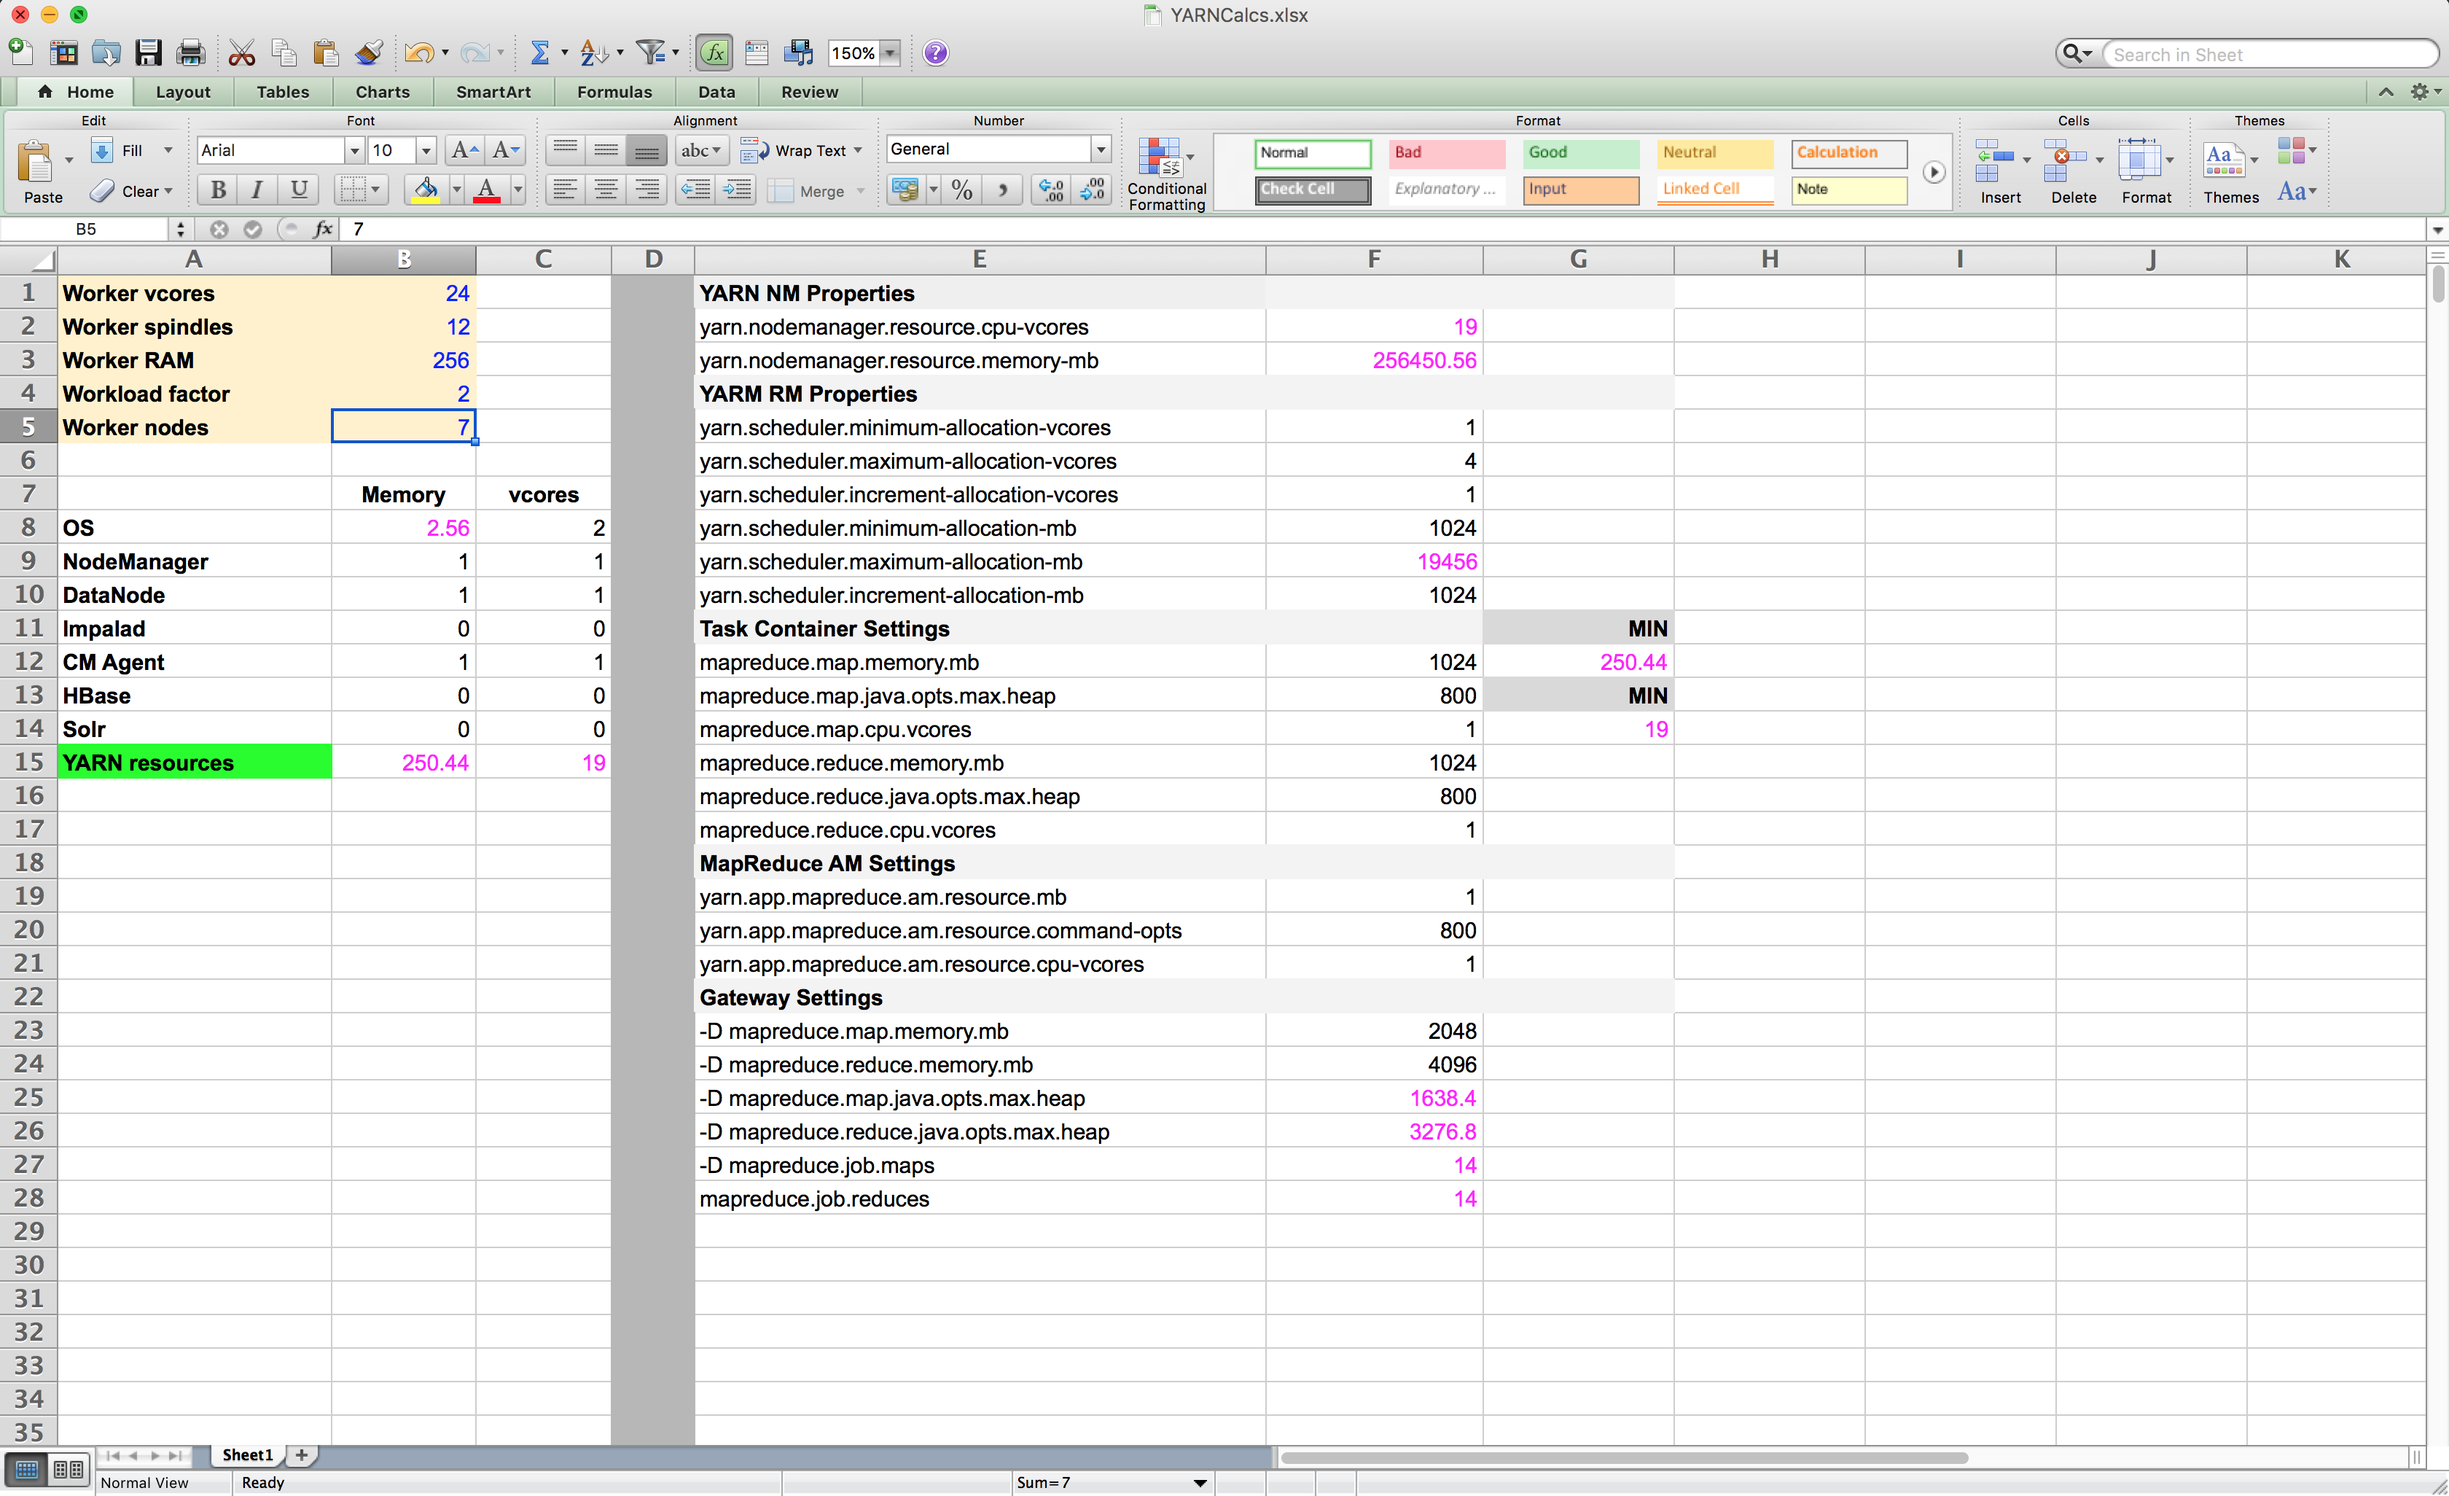
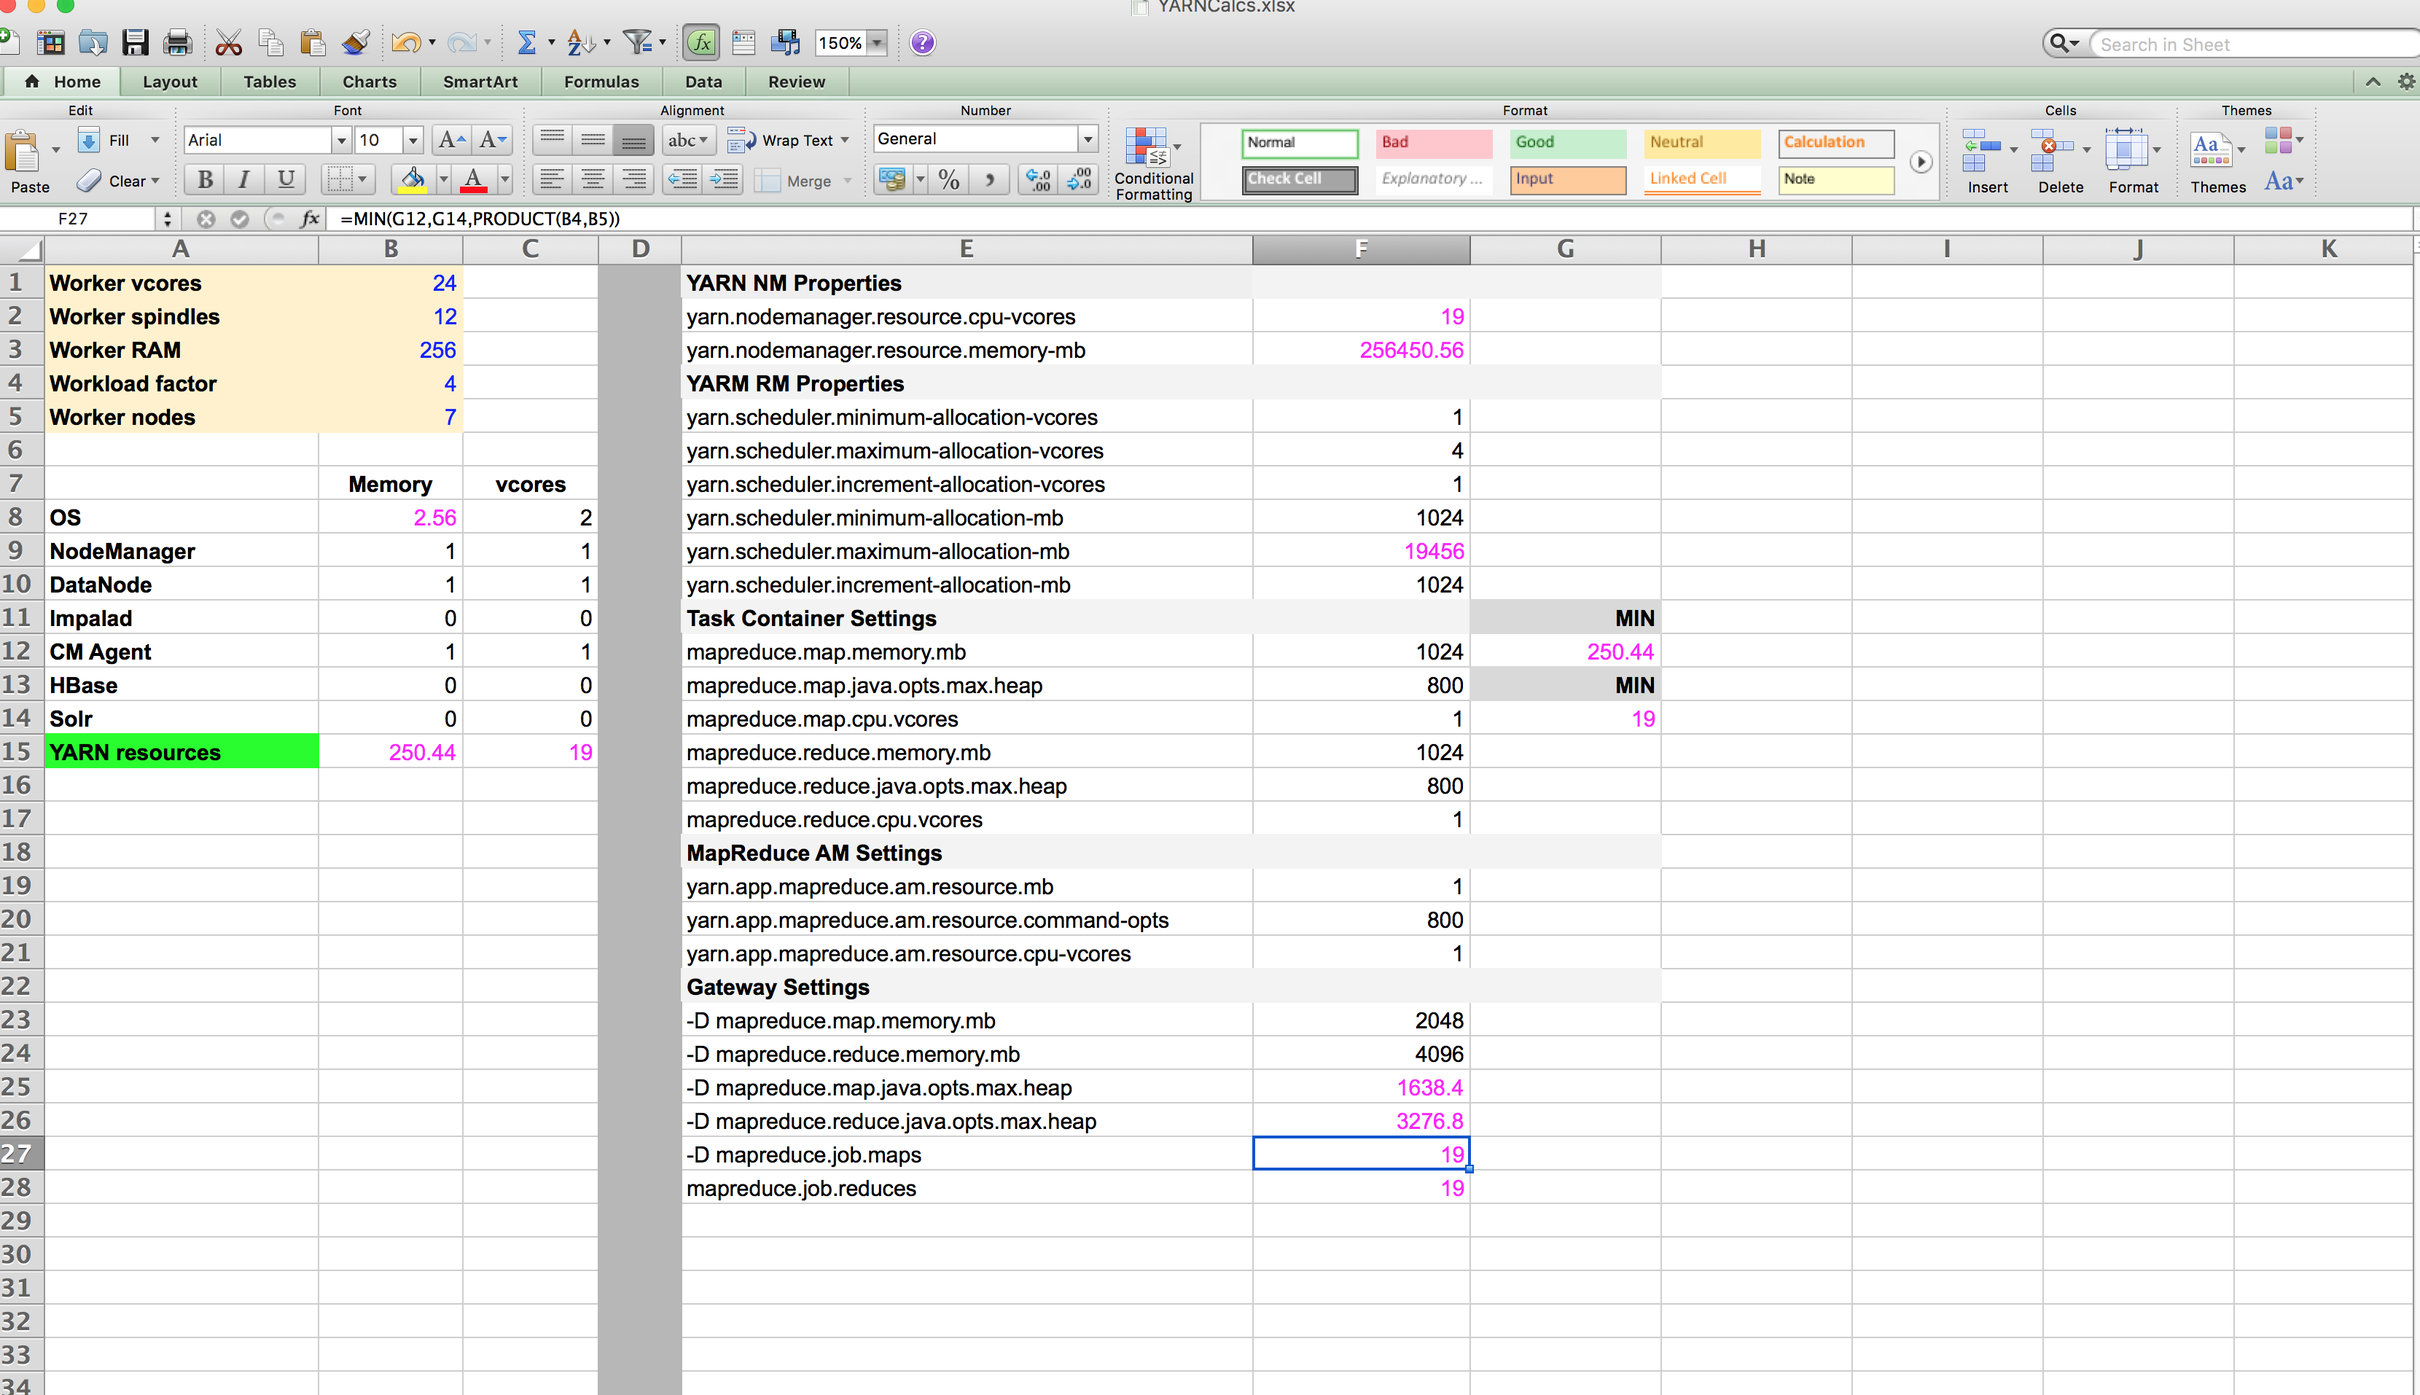
YARN/RM Lab

Changed region(s): [[0.0, 0.0, 1.0, 1.0], [0.4654, 0.0, 0.5274, 0.0308]]

diff --git a/resources/labs/0_YarnCalcs.md b/resources/labs/0_YarnCalcs.md
@@ -5,6 +5,4 @@
 * Reduced OS level Memory usage for given configuration. 10% of available 256 GB RAM is alot of OS level activities. So, reduced it to 1% to maximize the availabilty of memory for Yarn.
 
 ####3 What criteria affects workload factor? What does a value of 1, 2, or 4 signify?
-* Taking guess CPU, Number of Spindles and RAM. (Can you please explain what is workload factor)
-
-####4 
+* Workload is defining the intesity and resources expected for workload items. Byt changing this value its effecting the parallel processing of the by either increading or decreasing the mappers and reducers that we can used for the job

diff --git a/resources/labs/4_YARN_results.md b/resources/labs/4_YARN_results.md
@@ -1,0 +1,39 @@
+* Parameters used for test
+	*  Mappers = 4, 6, 8, 10
+	*  Reducers = 1, 2, 3, 4
+	*  Memory = 512, 1024
+* Fastest Run
+
+```
+	Mappers: 10
+	Reducers: 4
+	mapreduce.map.memory.mb: 512
+    
+    Teragen:
+	real	1m4.910s
+	user	0m6.346s
+	sys	0m0.316s
+
+	Terasort:
+	real	1m42.498s
+	user	0m8.076s
+	sys	0m0.367s
+	
+```
+
+* Slowest Run
+
+```
+	Mappers: 4
+	Reducers: 1
+	mapreduce.map.memory.mb: 1024
+	
+	Teragen:
+	real	1m7.916s
+	user	0m6.344s
+	sys	0m0.294s
+	Terasort:
+	real	2m30.615s
+	user	0m8.147s
+	sys	0m0.346s
+```
